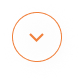
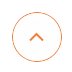
Update table

Changed region(s): [[0.1389, 0.1389, 0.8611, 0.8611], [0.3333, 0.3889, 0.6111, 0.5833]]

diff --git a/src/components/EditTable.tsx b/src/components/EditTable.tsx
@@ -1,0 +1,126 @@
+import { forwardRef, useContext, useEffect, useImperativeHandle, useState } from "react";
+
+import { StorageContext } from "data/StorageContext";
+import { ICategory, IMessage, ITable, IUser } from "types/venueType";
+import CategorySelection from "components/Selections/CategorySelection";
+import MessageSelection from "components/Selections/MessageSelection";
+import WaitersSelection from "components/Selections/WaitersSelection";
+
+interface EditTableProps {
+  table: ITable;
+}
+
+const EditTable = forwardRef(({ table }: EditTableProps, ref) => {
+  const { selectedVenue, changeTable } = useContext(StorageContext);
+  const [allFoodChecked, setAllFoodChecked] = useState(false);
+  const [allDrinkChecked, setAllDrinkChecked] = useState(false);
+  const [allOtherChecked, setAllOtherChecked] = useState(false);
+  const [waitersIds, setWaitersIds] = useState<string[]>([]);
+  const [foodIds, setFoodIds] = useState<string[]>([]);
+  const [drinkIds, setDrinkIds] = useState<string[]>([]);
+  const [otherIds, setOtherIds] = useState<string[]>([]);
+  const [messageIds, setMessageIds] = useState<string[]>([]);
+  const [waiters, setWaiters] = useState<IUser[]>([]);
+  const [foods, setFoods] = useState<ICategory[]>([]);
+  const [drinks, setDrinks] = useState<ICategory[]>([]);
+  const [others, setOthers] = useState<ICategory[]>([]);
+  const [messages, setMessages] = useState<IMessage[]>([]);
+
+  useImperativeHandle(ref, () => ({
+    async saveTable() {
+      try {
+        const updateData = {
+          id: table.id,
+          hospitalityVenueId: selectedVenue!.id,
+          users: waitersIds,
+          messages: messageIds,
+          disabledCategories: selectedVenue!.categories
+            .filter((category) => {
+              const categoryIds = [...foodIds, ...drinkIds, ...otherIds];
+              return !categoryIds.includes(category.id);
+            })
+            .map((category) => category.id),
+        };
+        await changeTable(updateData);
+      } catch (err) {
+        // TODO Error handling
+        console.log(err);
+      }
+    },
+  }));
+
+  useEffect(() => {
+    if (!selectedVenue) return;
+
+    const allWaiters = selectedVenue.users;
+    const allMessages = selectedVenue.messages;
+    const allCategories = selectedVenue.categories;
+    const allFoods = allCategories.filter((category) => category.type.name === "FOOD");
+    const allDrinks = allCategories.filter((category) => category.type.name === "DRINK");
+    const allOthers = allCategories.filter((category) => category.type.name === "OTHER");
+
+    setWaiters(allWaiters);
+    setMessages(allMessages);
+    setFoods(allFoods);
+    setDrinks(allDrinks);
+    setOthers(allOthers);
+
+    const tableWaitersIds = table.users.map((user) => user.id);
+    const tableMessagesIds = table.messages.map((message) => message.id);
+    const tableDisabledCategoriesIds = table.disabledCategories.map((category) => category.id);
+
+    const tableFoods = allFoods.filter((food) => !tableDisabledCategoriesIds.includes(food.id));
+    const tableDrinks = allDrinks.filter((drink) => !tableDisabledCategoriesIds.includes(drink.id));
+    const tableOthers = allOthers.filter((other) => !tableDisabledCategoriesIds.includes(other.id));
+
+    setAllFoodChecked(tableFoods.length === allFoods.length);
+    setAllDrinkChecked(tableDrinks.length === allDrinks.length);
+    setAllOtherChecked(tableOthers.length === allOthers.length);
+
+    setWaitersIds(tableWaitersIds);
+    setMessageIds(tableMessagesIds);
+    setFoodIds(tableFoods.map((food) => food.id));
+    setDrinkIds(tableDrinks.map((drink) => drink.id));
+    setOtherIds(tableOthers.map((other) => other.id));
+  }, [selectedVenue]);
+
+  return (
+    <>
+      <div className="h-96 add-table-form-wrapper no-scrollbar">
+        <h1 className="text-3xl  mb-10">Waiter/es</h1>
+        <WaitersSelection waiters={waiters} waitersIds={waitersIds} setWaitersIds={setWaitersIds} />
+        <h1 className="text-3xl mt-16">Menu categories</h1>
+        <div className="flex flex-wrap justify-between mt-5 md:mt-10 md:w-3/4 xl:w-2/4">
+          <CategorySelection
+            title="Food"
+            items={foods}
+            selectedIds={foodIds}
+            setSelectedIds={setFoodIds}
+            isAllSelected={allFoodChecked}
+            setIsAllSelected={setAllFoodChecked}
+          />
+          <CategorySelection
+            title="Drink"
+            items={drinks}
+            selectedIds={drinkIds}
+            setSelectedIds={setDrinkIds}
+            isAllSelected={allDrinkChecked}
+            setIsAllSelected={setAllDrinkChecked}
+          />
+          <CategorySelection
+            title="Other"
+            items={others}
+            selectedIds={otherIds}
+            setSelectedIds={setOtherIds}
+            isAllSelected={allOtherChecked}
+            setIsAllSelected={setAllOtherChecked}
+          />
+        </div>
+        <h1 className="text-3xl mt-10 mb-16">Messages</h1>
+        <MessageSelection messages={messages} messageIds={messageIds} setMessageIds={setMessageIds} />
+      </div>
+    </>
+  );
+});
+
+export default EditTable;

diff --git a/src/pages/TablesPage.tsx b/src/pages/TablesPage.tsx
@@ -1,21 +1,28 @@
-import { useContext, useMemo } from "react";
+import { useContext, useMemo, useRef, useState } from "react";
 import { useNavigate } from "react-router-dom";
 
 import { StorageContext } from "data/StorageContext";
 import AddItem from "../components/AddItem";
-import { ITable } from "types/venueType";
 import { motion } from "framer-motion";
 import expandItem from "../assets/images/expand-item.png";
 import deleteItem from "../assets/images/delete-item.png";
 import infoIcon from "../assets/images/info-icon.png";
 
+import EditTable from "components/EditTable";
+import { ITable } from "types/venueType";
+import LoadSpinner from "components/LoadSpinner";
+
 const TablesPage = () => {
-  const { selectedVenue, deleteTable, isScreenLoading } = useContext(StorageContext);
+  const { selectedVenue, deleteTable, isScreenLoading, isLoading } = useContext(StorageContext);
+  const [expandedTable, setExpandedTable] = useState<string>("");
+
   const tables = useMemo<ITable[]>(() => {
     if (!selectedVenue) return [];
     return selectedVenue.tables;
   }, [selectedVenue]);
   const navigate = useNavigate();
+
+  const editRef = useRef();
 
   const addTableHandler = () => {
     navigate("/add-table", { replace: true });
@@ -29,20 +36,54 @@ const TablesPage = () => {
     }
   };
 
+  const expandTable = (id: string) => {
+    setExpandedTable((prev) => (prev === id ? "" : id));
+  };
+
+  const checkIsExpanded = (id: string) => {
+    return expandedTable === id;
+  };
+
+  const changeTableHandler = async () => {
+    await (editRef.current as any)!.saveTable();
+    setExpandedTable("");
+  };
+
   return (
     <>
       <motion.div className="container overflow-auto no-scrollbar elements" variants={containerVariants} initial="hidden" animate="visible">
         {tables.map((table, index) => (
-          <motion.div key={index} className="item" variants={itemVariants}>
-            <div className="bg-supporting bg-opacity-30 hover:bg-opacity-100 trans mb-4 transition ease-in-out delay-40 w-full h-16 flex items-center p-5 justify-between rounded-2xl">
-              <div className="flex items-center cursor-pointer">
-                <img src={expandItem} alt="expand item" className="w-14 mt-2" />
-                <p className="ml-5 sm:ml-10">{table.name}</p>
+          <motion.div key={index} variants={itemVariants} className="tableRowWrapper">
+            <motion.div
+              className={`tableRow ${checkIsExpanded(table.id) ? "" : " hover:bg-opacity-100"}`}
+              variants={tableRow}
+              animate={checkIsExpanded(table.id) ? "expanded" : "collapsed"}
+            >
+              <div className="tableRowInside">
+                <div className="flex cursor-pointer" onClick={() => expandTable(table.id)}>
+                  <img
+                    src={expandItem}
+                    alt="expand item"
+                    className={`w-12 h-12 -mt-2 transform transition-transform duration-300 ${checkIsExpanded(table.id) ? "rotate-180" : ""}`}
+                  />
+                  <p className="ml-5 mt-1 sm:ml-10">{table.name}</p>
+                </div>
+
+                <div className="flex flex-wrap space-x-5">
+                  {checkIsExpanded(table.id) && (
+                    <button className="button-save" type="button" onClick={changeTableHandler}>
+                      {isLoading ? <LoadSpinner /> : "Save"}
+                    </button>
+                  )}
+                  <img src={deleteItem} alt="delete item" className="w-14 -mt-3 cursor-pointer" onClick={() => deleteTableHandler(table.id)} />
+                </div>
               </div>
-              <div>
-                <img src={deleteItem} alt="delete item" className="w-14 mt-2 cursor-pointer" onClick={() => deleteTableHandler(table.id)} />
-              </div>
-            </div>
+              {checkIsExpanded(table.id) && (
+                <div className="w-full h-5/6 pl-10 pr-10 pt-5 overflow-auto no-scrollbar border-t-2">
+                  <EditTable table={table} ref={editRef} />
+                </div>
+              )}
+            </motion.div>
           </motion.div>
         ))}
         {isScreenLoading}
@@ -75,4 +116,20 @@ const containerVariants = {
 const itemVariants = {
   hidden: { opacity: 0, y: 20 },
   visible: { opacity: 1, y: 0 },
+};
+const tableRow = {
+  collapsed: {
+    height: "4.4rem",
+    transition: {
+      duration: 0.3,
+      ease: "easeInOut",
+    },
+  },
+  expanded: {
+    height: "45rem",
+    transition: {
+      duration: 0.3,
+      ease: "easeInOut",
+    },
+  },
 };

diff --git a/src/data/StorageContext.tsx b/src/data/StorageContext.tsx
@@ -25,6 +25,13 @@ interface ITableData {
   messages: string[];
   disabledCategories: string[];
 }
+interface IUpdateTableData {
+  id: string;
+  hospitalityVenueId: string;
+  users: string[];
+  messages: string[];
+  disabledCategories: string[];
+}
 
 interface IWaitedData {
   email: string;
@@ -50,6 +57,7 @@ interface IStorageContext {
   deleteTable: (tableId: string) => Promise<void>;
   addWaiter: (data: IWaitedData) => Promise<void>;
   deleteWaiter: (waiterId: string) => Promise<void>;
+  changeTable: (data: IUpdateTableData) => Promise<void>;
 }
 
 const initialState: IStorageContext = {
@@ -68,6 +76,7 @@ const initialState: IStorageContext = {
   deleteTable: async (tableId: string) => {},
   addWaiter: async (data: IWaitedData) => {},
   deleteWaiter: async (waiterId: string) => {},
+  changeTable: async (data: IUpdateTableData) => {},
 };
 
 const StorageContext = createContext<IStorageContext>(initialState);
@@ -320,6 +329,37 @@ const StorageProvider = ({ children }: IStorageProviderProps) => {
     }
   };
 
+  const changeTable = async ({ id, hospitalityVenueId, users, messages, disabledCategories }: IUpdateTableData) => {
+    try {
+      setIsLoading(true);
+      const response = await axios.put(
+        `${apiAddress}/table/${id}`,
+        { hospitalityVenueId, users, messages, disabledCategories },
+        {
+          headers: { "Content-Type": "application/json" },
+          withCredentials: true,
+        }
+      );
+
+      const updatedTable: ITable = response.data.data;
+
+      setSelectedVenue((prev) => {
+        if (prev) {
+          return {
+            ...prev,
+            tables: prev.tables.map((table) => (table.id === id ? updatedTable : table)),
+          };
+        }
+        return prev;
+      });
+
+      setIsLoading(false);
+    } catch (error) {
+      setIsLoading(false);
+      throw createError(error);
+    }
+  };
+
   return (
     <StorageContext.Provider
       value={{
@@ -338,6 +378,7 @@ const StorageProvider = ({ children }: IStorageProviderProps) => {
         deleteTable,
         addWaiter,
         deleteWaiter,
+        changeTable,
       }}
     >
       {children}

diff --git a/src/index.css b/src/index.css
@@ -23,6 +23,9 @@
 .button-logout {
   @apply pt-2 pb-2 pl-6 pr-6 rounded-lg hover:outline-none transition ease-in-out delay-100 w-full bg-error bg-opacity-60 hover:bg-opacity-100 font-global font-regular text-typography cursor-pointer;
 }
+.button-save {
+  @apply pl-5 pr-5 rounded-lg hover:outline-none transition ease-in-out delay-100 h-9 -mt-0.5 bg-primary bg-opacity-60 hover:bg-opacity-100 font-global font-regular text-typography cursor-pointer;
+}
 
 .button-add-table {
   @apply pt-2 pb-2 pl-6 pr-6 rounded-lg hover:outline-none transition ease-in-out delay-100 w-full bg-primary bg-opacity-60 hover:bg-opacity-100 font-global font-regular text-typography cursor-pointer;
@@ -49,6 +52,17 @@
 
 .tableBoxUnselected {
   @apply bg-supporting h-12 flex justify-center items-center rounded-xl hover:bg-supportingHover cursor-pointer;
+}
+
+.tableRow {
+  @apply bg-supporting bg-opacity-30 mb-4 p-5 rounded-2xl;
+}
+.tableRow {
+  height: 4.4rem;
+}
+
+.tableRowInside {
+  @apply flex justify-between;
 }
 
 .add-item {

diff --git a/src/pages/WaitersPage.tsx b/src/pages/WaitersPage.tsx
@@ -83,7 +83,7 @@ const WaitersPage = () => {
               }`}
             >
               <div className="flex items-center cursor-pointer">
-                <img src={expandItem} alt="expand item" className="w-14 mt-2" />
+                <img src={expandItem} alt="expand item" className="w-12 h-12" />
                 <div className="flex ml-2 sm:ml-10 items-center">
                   <p className="">
                     {waiter.firstName} {waiter.lastName}
